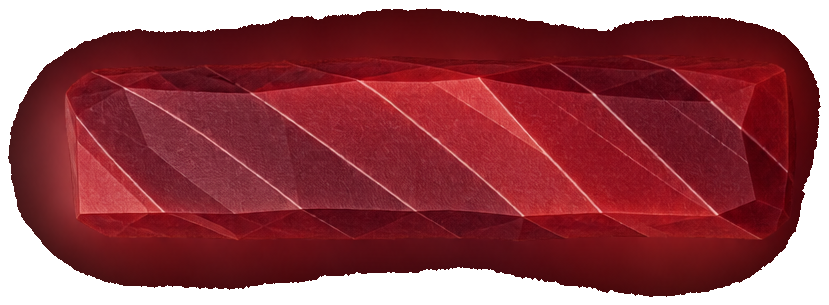
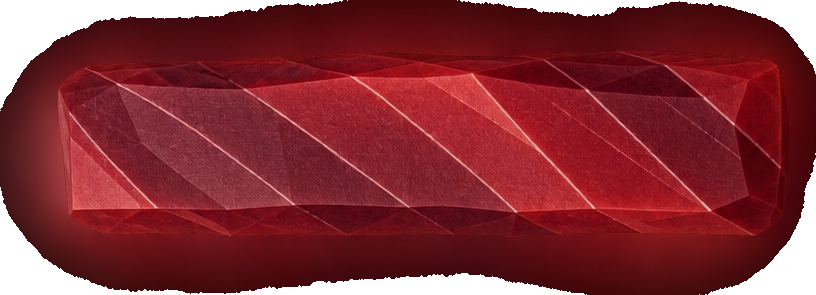
sharp strips: hi-dpi canvas, cover-fit, tighter key

diff --git a/play/board.js b/play/board.js
@@ -47,7 +47,7 @@
   loadImg('maki', ASSET + 'assets/board/maki-target.png');
   loadImg('base', ASSET + 'assets/board/maki-base.png');
   ['salmon','cucumber','tuna'].forEach((k) => {
-    loadImg(k, ASSET + 'assets/board/' + k + '.png?v=4');
+    loadImg(k, ASSET + 'assets/board/' + k + '.png?v=5');
     loadImg('wedge-' + k, ASSET + 'assets/board/wedge-' + k + '.png');
   });
 
@@ -90,7 +90,7 @@
   }
 
   function relayout() {
-    const dpr = Math.min(2.5, window.devicePixelRatio || 1);
+    const dpr = Math.min(3, window.devicePixelRatio || 1);
     const VW = window.innerWidth, VH = window.innerHeight;
     if (canvas.width !== Math.round(VW * dpr) || canvas.height !== Math.round(VH * dpr)) {
       canvas.width = Math.round(VW * dpr);
@@ -460,15 +460,15 @@
       const dx = r.x + 10, dw = r.w - 20, dh = r.h * 0.74;
       const dy = r.y + (r.h - dh) / 2;
       ctx.save();
-      rr(dx, dy + 3, dw, dh, dh * 0.48);
-      ctx.fillStyle = 'rgba(40, 36, 28, 0.10)';
-      ctx.fill();
-      ctx.restore();
-      ctx.save();
       rr(dx, dy, dw, dh, dh * 0.48);
       ctx.clip();
       if (imgs[p.kind]) {
-        ctx.drawImage(imgs[p.kind], dx, dy, dw, dh);
+        const im = imgs[p.kind];
+        ctx.imageSmoothingEnabled = true;
+        ctx.imageSmoothingQuality = 'high';
+        const scale = Math.max(dw / im.width, dh / im.height);
+        const iw = im.width * scale, ih = im.height * scale;
+        ctx.drawImage(im, dx + (dw - iw) / 2, dy + (dh - ih) / 2, iw, ih);
       } else {
         const g = ctx.createLinearGradient(dx, dy, dx + dw, dy + dh);
         g.addColorStop(0, spec.fill[1]);

diff --git a/play/index.html b/play/index.html
@@ -7,4 +7,4 @@
   canvas{display:block;width:100%;height:100%;touch-action:none}
 </style>
 <canvas id="c"></canvas>
-<script src="board.js?v=35"></script>
+<script src="board.js?v=36"></script>
